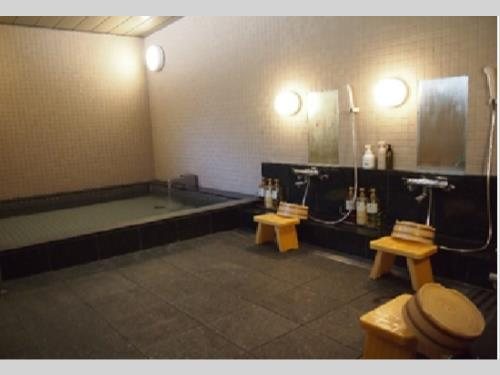
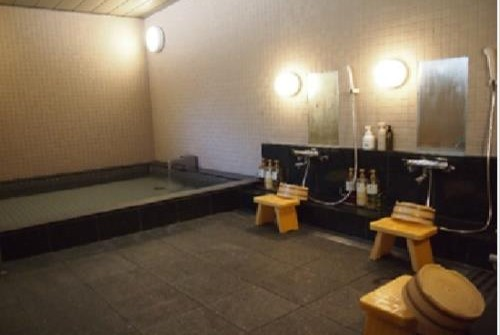
一応画像は埋めて表示直した

diff --git a/hotel.html b/hotel.html
@@ -208,42 +208,42 @@
 
           <div class="amenity-grid">
             <div class="amenity">
-              <span class="amenity-icon">⌁</span>
+              <img class="amenity-icon" src="images/hotel/amenity/amenity-icon-01.png" alt="" aria-hidden="true" width="48" height="48">
               <span>Wi-Fi</span>
             </div>
 
             <div class="amenity">
-              <span class="amenity-icon">♨</span>
+              <img class="amenity-icon" src="images/hotel/amenity/amenity-icon-02.png" alt="" aria-hidden="true" width="48" height="48">
               <span>タオル</span>
             </div>
 
             <div class="amenity">
-              <span class="amenity-icon">♧</span>
+              <img class="amenity-icon" src="images/hotel/amenity/amenity-icon-03.png" alt="" aria-hidden="true" width="48" height="48">
               <span>歯ブラシ</span>
             </div>
 
             <div class="amenity">
-              <span class="amenity-icon">◯</span>
+              <img class="amenity-icon" src="images/hotel/amenity/amenity-icon-04.png" alt="" aria-hidden="true" width="48" height="48">
               <span>ドライヤー</span>
             </div>
 
             <div class="amenity">
-              <span class="amenity-icon">▱</span>
+              <img class="amenity-icon" src="images/hotel/amenity/amenity-icon-05.png" alt="" aria-hidden="true" width="48" height="48">
               <span>冷蔵庫</span>
             </div>
 
             <div class="amenity">
-              <span class="amenity-icon">◇</span>
+              <img class="amenity-icon" src="images/hotel/amenity/amenity-icon-06.png" alt="" aria-hidden="true" width="48" height="48">
               <span>館内着</span>
             </div>
 
             <div class="amenity">
-              <span class="amenity-icon">☕</span>
+              <img class="amenity-icon" src="images/hotel/amenity/amenity-icon-07.png" alt="" aria-hidden="true" width="48" height="48">
               <span>お茶</span>
             </div>
 
             <div class="amenity">
-              <span class="amenity-icon">P</span>
+              <img class="amenity-icon" src="images/hotel/amenity/amenity-icon-08.png" alt="" aria-hidden="true" width="48" height="48">
               <span>駐車場</span>
             </div>
           </div>
@@ -269,7 +269,7 @@
           <div class="button-row">
             <a
               class="btn"
-              href="#"
+              href="https://maps.app.goo.gl/gwMKvRuWmVZ2uM9J7"
               target="_blank"
               rel="noopener noreferrer"
             >Google Mapsで見る</a>

diff --git a/index.html b/index.html
@@ -44,9 +44,9 @@
       <a class="nav-card" href="schedule.html"><small>01</small><h2>旅のしおり</h2><p>2日間の予定と移動をタイムラインで確認。</p></a>
       <a class="nav-card" href="sightseeing.html"><small>02</small><h2>観光地</h2><p>今回行く場所と周辺候補をまとめます。</p></a>
       <a class="nav-card" href="hotel.html"><small>03</small><h2>宿泊施設</h2><p>淡路荘の部屋・食事・お風呂・設備情報。</p></a>
-      <a class="nav-card" href="belongings.html"><small>04</small><h2>持ち物</h2><p>必須・あると便利・担当制の3分類。</p></a>
-      <a class="nav-card" href="members.html"><small>05</small><h2>参加メンバー</h2><p>今回参加する家族5人のシンプルな一覧。</p></a>
-      <a class="nav-card" href="gallery.html"><small>06</small><h2>思い出写真</h2><p>旅行後に写真をたくさん追加できます。</p></a>
+      <a class="nav-card" href="belongings.html"><small>04</small><h2>持ち物</h2><p>旅行に必要な荷物。</p></a>
+      <a class="nav-card" href="members.html"><small>05</small><h2>参加メンバー</h2><p>今回参加するメンバー一覧。</p></a>
+      <a class="nav-card" href="gallery.html"><small>06</small><h2>思い出写真</h2><p>旅行の写真を閲覧できます。</p></a>
     </div>
   </div>
 </section>

diff --git a/css/style.css b/css/style.css
@@ -496,6 +496,8 @@ main:not(.home-main) {
   display: grid;
   place-items: center;
   color: #73675d;
+  overflow: hidden;
+  border-radius: var(--radius-sm);
 }
 
 .place-body {
